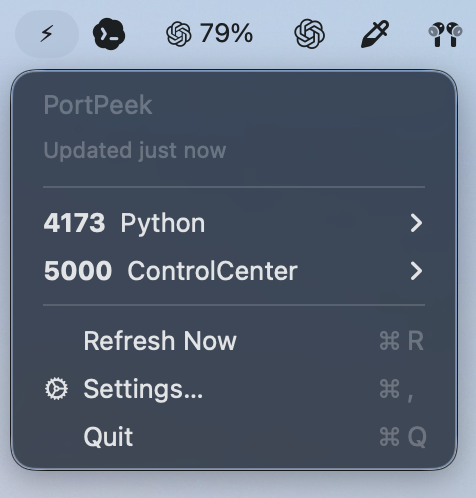
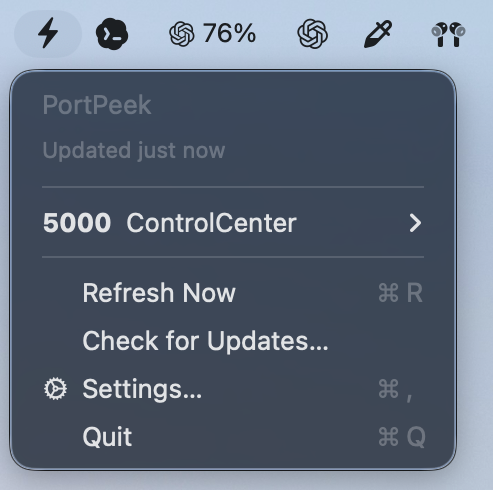
docs: refresh menu screenshot for update checker

diff --git a/README.md b/README.md
@@ -14,7 +14,7 @@ brew install --cask DrakeMikels/tap/portpeek
 
 1. Download `PortPeek-*.dmg` from the [latest release](../../releases/latest)
 2. Open the DMG and drag PortPeek to `/Applications`
-3. Launch PortPeek. The `⚡` icon appears in your menu bar
+3. Launch PortPeek. The PortPeek icon appears in your menu bar
 
 > **macOS 13.5 or later required.**
 > Release builds are signed and notarized.
@@ -35,7 +35,7 @@ brew install --cask DrakeMikels/tap/portpeek
 
 ## What It Does
 
-Click the `⚡` menu bar icon to see active listeners on your watched ports. Each entry shows the port number and process name. Open an entry to see:
+Click the PortPeek menu bar icon to see active listeners on your watched ports. Each entry shows the port number and process name. Open an entry to see:
 
 - **Open in Browser** — opens `http://localhost:<port>` in your default browser
 - **Copy Host:Port** — copies `localhost:<port>` to your clipboard
